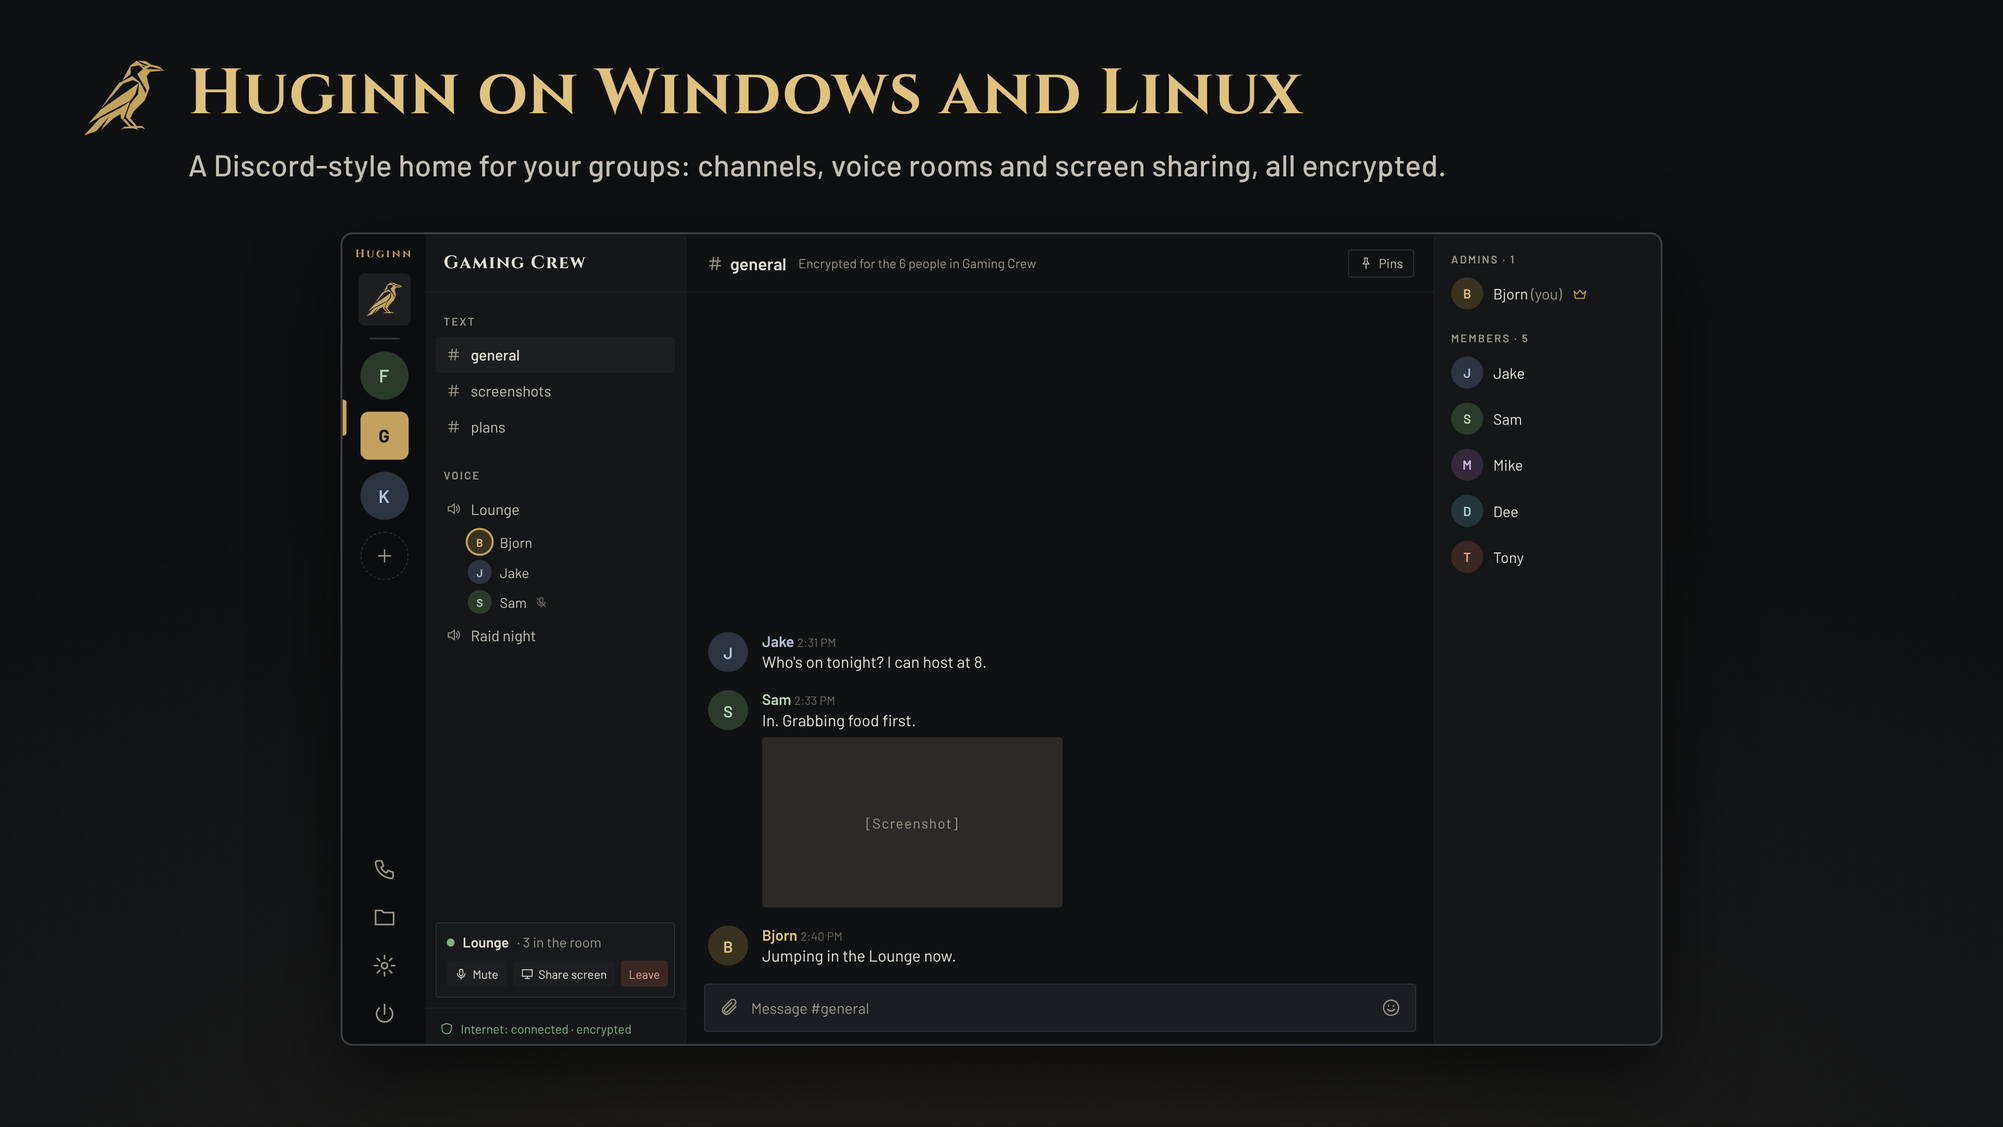
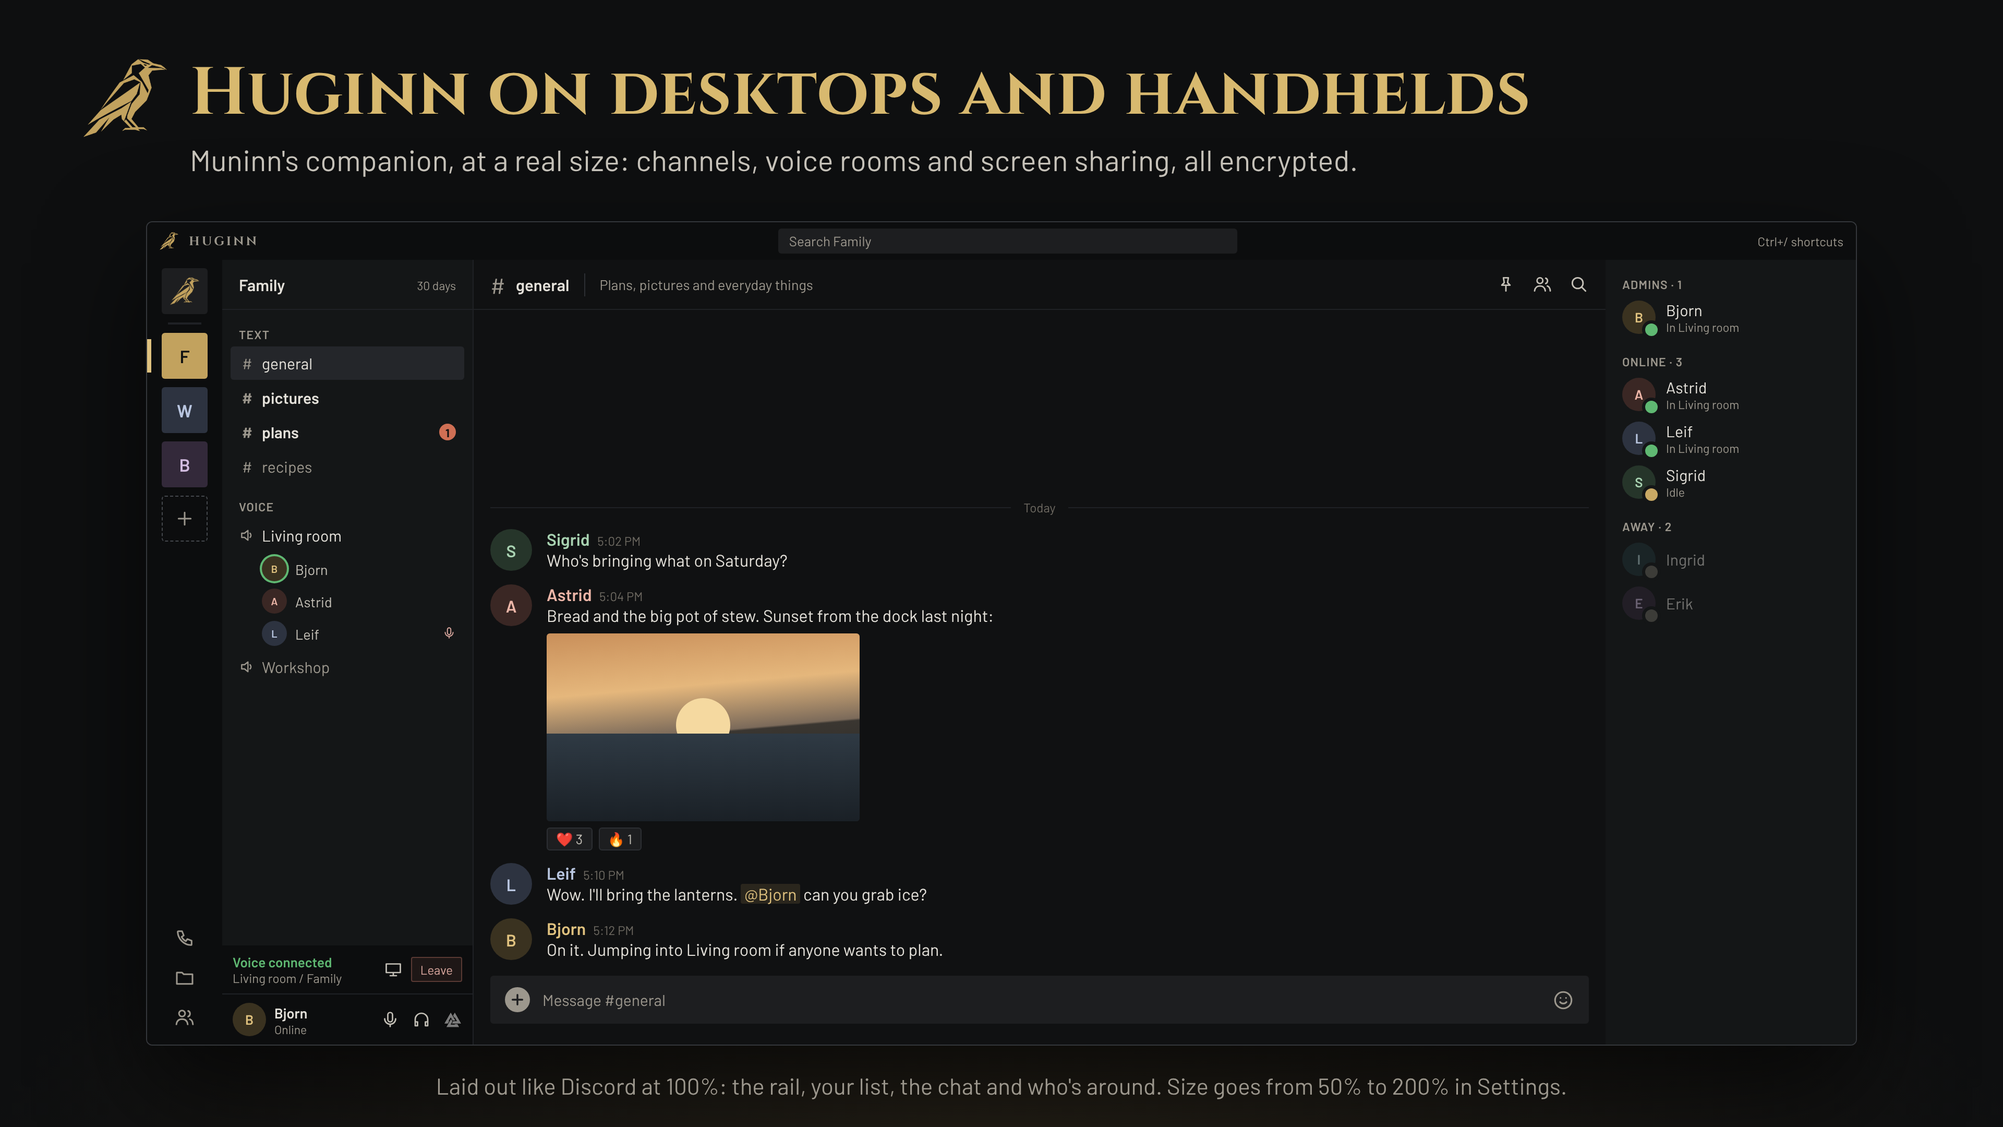
README and panels for 0.95: new phone, tablet, desktop, battery and privacy panels, Kids' TV reconnect and noise removal, themes, Move here and linked devices, groups and invite links; handheld panel removed; controller page for the normal layout

diff --git a/README.md b/README.md
@@ -16,23 +16,30 @@
 </p>
 
 <p align="center">
-  <a href="https://github.com/Ravenor907/Huginn-Muninn/releases/latest/download/Muninn.apk"><b>Muninn for Android and Google TV</b></a> &nbsp;·&nbsp;
-  <a href="https://github.com/Ravenor907/Huginn-Muninn/releases/latest/download/Huginn-Windows.zip"><b>Huginn for Windows</b></a> &nbsp;·&nbsp;
-  <a href="#install"><b>Huginn for Linux</b></a>
+  <a href="https://github.com/Ravenor907/Huginn-Muninn/releases/latest/download/Muninn.apk"><b>Muninn for Android</b></a> &nbsp;·&nbsp;
+  <a href="https://github.com/Ravenor907/Huginn-Muninn/releases/latest/download/Huginn-Windows.zip"><b>Huginn .exe</b></a> &nbsp;·&nbsp;
+  <a href="https://github.com/Ravenor907/Huginn-Muninn/releases/latest/download/Huginn.flatpak"><b>Huginn Flatpak</b></a>
 </p>
 
 Odin sends two ravens out every morning: Huginn (thought) and Muninn (memory). They fly the world and bring back what he needs to know.
 
-These two carry your messages. **Muninn** runs on Android phones, tablets and Google TV. **Huginn** runs on Windows and Linux computers. Together they are a private place for your family and friends to keep in touch, with nobody in the middle who can read it.
+These two carry your messages. **Muninn** runs on Android phones, tablets and Google TV. **Huginn** is the companion of Muninn, for desktops and handhelds: get the .exe or the Flatpak. Together they are a private place for your family and friends to keep in touch, with nobody in the middle who can read it.
+
+Both apps share one look: sharp edges, a touch of the old north, and a clean, modern layout. Settings fit on one short page, in plain words.
 
 ## Keep in touch
 
-- **Chats and groups:** messages, photos, albums, voice and video messages, polls, reactions and replies. Groups have their own channels.
+- **Chats and groups:** messages, photos, albums, voice and video messages, polls, reactions and replies. Groups have their own channels, voice rooms and a member list that shows who's around.
 - **Calls:** voice and video calls, group calls, and voice rooms people drop in and out of. Group video works for up to 4 people.
 - **Files:** send files to someone across the room or across the country. They go straight from your device to theirs.
-- **Easy to add the people you trust:** share your code or QR, send an invite link that works once, tap phones together, or let someone you both know introduce you.
-- **All your screens:** your phone, a tablet or second phone linked to it, and your computer.
-- **Kids' TV:** turn a Google TV into a simple screen your kids use to reach the people you approve.
+- **Easy to add the people you trust:** point the camera at their code, send an invite link that works once, tap phones together, or let someone you both know introduce you.
+- **Group invite links:** like Discord's. Pick how long a link lasts (30 minutes up to never) and how many people can use it, see every link that's out there, and revoke any of them at once. Admins can let members make links too.
+- **Press and hold someone** (right-click on a computer) to set who they are to you: Family, Work or Folk, what they may do (calls, video, files, Always right away), where their chat sits (pin, move, mute, archive), a nickname and a color. Block is there too.
+- **Move here:** got a new phone, tablet or computer? Everything comes over your home Wi-Fi: you, your contacts, groups and chats. Your contacts don't have to add you again. The old device is locked out, or becomes a linked device if you say so.
+- **Use both:** link a tablet, second phone or computer to your phone. The same 4 emoji show on both screens before anything is shared.
+
+<p align="center"><img src="docs/panels/12-groups-and-invites.png" width="100%" alt="Group invite links that expire, and press and hold someone to set their role"></p>
+<p align="center"><img src="docs/panels/11-move-and-link.png" width="100%" alt="Move everything to a new device over home Wi-Fi, or link it with 4 matching emoji"></p>
 
 ## Private by default
 
@@ -40,29 +47,48 @@ These two carry your messages. **Muninn** runs on Android phones, tablets and Go
 
 - **Only the people talking can read or hear it.** Every message, photo, voice note, call and file is end-to-end encrypted, with a fresh key for every message.
 - **No account.** You are a key made on your own device, not a phone number or email address. Strangers without your code can't reach you.
-- **Works with or without the internet.** Close by, your devices talk over Wi-Fi and Bluetooth. Apart, sealed messages travel through free public relays that can't see who sent them or what they say.
-- **Your address stays yours.** Calls with people you haven't chosen to trust go through a relay, so they never see your IP address.
-- **Locked on your device.** A pattern or password opens the app, and everything it keeps is encrypted. Panic lock locks it all in a moment.
-- **Messages don't stay forever.** Chats delete messages, photos, voice clips, videos and files after 7 days on every device, and backups leave them out. Family and Work groups, and people in your Family or Work folder, can keep them up to 30 days.
+- **Works with or without the internet.** Close by, your devices talk over Wi-Fi and Bluetooth. Apart, sealed messages travel through free public relays.
+- **Relays can't tell who's talking to whom.** Messages go out on their own short connections, padded to a few fixed sizes, so a relay can't link sender and receiver or guess what a message is. Only your internet address shows, unless you use a VPN.
+- **Your address stays yours on calls.** Calls with people you haven't chosen to trust go through a relay, so they never see your internet address.
+- **A lock that's hard to guess.** A pattern or password opens the app, and everything it keeps is encrypted. On a phone the lock is tied to its security chip, and on a computer it's built to be very slow to guess. Panic lock locks it all in a moment.
+- **Safe moves and links.** Move here works only on your home Wi-Fi, and linked devices are checked with 4 emoji on both screens.
+- **Messages don't stay forever.** Chats delete messages, photos, voice clips, videos and files after 7 days on every device, and backups leave them out. Family and Work chats can keep them up to 30 days. Relays are told to drop them when that time is up too.
+- **Checked top to bottom.** For 0.95 both apps were gone through for security problems and made tighter.
 - **Free and open.** GPL-3.0, no ads, no analytics, no tracking.
 
 ## On every screen you have
 
-<p align="center"><img src="docs/panels/01-muninn-phone.png" width="100%" alt="Muninn on your phone: chats, calls and file sharing"></p>
-<p align="center"><img src="docs/panels/02-muninn-tablet.png" width="100%" alt="Muninn on tablets: groups, channels and voice rooms"></p>
-<p align="center"><img src="docs/panels/03-huginn-desktop.png" width="100%" alt="Huginn on Windows and Linux"></p>
+The layout follows how you hold the screen. Upright, on a phone or a tablet, you get one column. Sideways, on a tablet or a computer, you get the rail with your groups, your list beside it and the conversation. Kids' TV keeps its own big-button layout.
+
+<p align="center"><img src="docs/panels/01-muninn-phone.png" width="100%" alt="Muninn on your phone: chats, photos, voice messages, polls, and adding someone with the camera"></p>
+<p align="center"><img src="docs/panels/02-muninn-tablet.png" width="100%" alt="Muninn on tablets: the rail layout sideways, one column upright"></p>
+<p align="center"><img src="docs/panels/03-huginn-desktop.png" width="100%" alt="Huginn on desktops and handhelds: a Discord-style layout at a real size"></p>
+
+On a computer Huginn is laid out like Discord at its normal size: the rail, your list, the conversation and the member list, each panel resizable. Size goes from 50% to 200% in Settings (or Ctrl+= and Ctrl+-). Huginn also works with a game controller: see [Using Huginn with a controller](docs/controller.md).
+
+Pick the look you like in Settings › Look and text size: **Dark**, **True black**, **Light** (parchment) or **Brushed metal**.
+
+<p align="center"><img src="docs/panels/10-themes.png" width="100%" alt="Four looks: Dark, True black, Light parchment and Brushed metal"></p>
 
 ## Easy on the battery
 
-<p align="center"><img src="docs/panels/08-battery.png" width="100%" alt="Choose how often Muninn checks for messages, quiet hours and a battery report"></p>
+<p align="center"><img src="docs/panels/08-battery.png" width="100%" alt="One battery choice in Settings, and a plain battery report"></p>
+
+- **One choice:** Fastest, Balanced or Extreme battery saver. Even the biggest saver keeps one light connection, so calls still ring almost at once.
+- **Messages on time, without Google.** No Google push. Muninn keeps its own light connection and wakes the phone only when it must.
+- **Always right away** for the people you pick, even on a low battery or in quiet hours.
+- **A battery report** shows what Muninn kept running today and roughly what it cost.
+- **Smaller downloads.** Muninn and Huginn both got lighter in 0.95.
 
 ## Kids' TV
 
-Muninn can also turn a Google TV into a simple screen your kids can use to reach Mom and Dad. No sign-in, no strangers, no ads: big buttons for a TV remote, and only the people a parent approves. Parents set it up and manage it from their own phones.
+Muninn can also turn a Google TV into a simple screen your kids can use to reach Mom and Dad. No sign-in, no strangers, no ads: big buttons for a TV remote, and only the people a parent approves. Parents set it up and manage it from their own phones, including how much room noise is taken out of the kids' voice on calls.
+
+Lost or reset your phone? Another parent lets you back in with one tap. If no parent is left, the TV shows a code behind a 5-second hold on the remote, so a child can't open it by accident.
 
 <p align="center"><img src="docs/panels/05-muninn-tv.png" width="100%" alt="Muninn on Google TV: kids pick who they want to talk to"></p>
-<p align="center"><img src="docs/panels/06-kids-tv-buttons.png" width="100%" alt="One button to call a parent, talk, or send a quick message"></p>
-<p align="center"><img src="docs/panels/07-parents-control.png" width="100%" alt="Parents manage the TV from their phone: quick messages, who they can reach, apps"></p>
+<p align="center"><img src="docs/panels/06-kids-tv-buttons.png" width="100%" alt="One button to call a parent, say it as text, or record a voice message"></p>
+<p align="center"><img src="docs/panels/07-parents-control.png" width="100%" alt="Parents manage the TV from their phone: quick messages, who they can reach, calls and noise removal"></p>
 
 ## What's new in 0.94
 
@@ -91,22 +117,20 @@ Every earlier release is in [What changed](docs/CHANGELOG.md).
 
 ## Install
 
-Both apps come out together with the same version number, and both update themselves when they open.
+There are three downloads, always: Muninn for Android, and Huginn as an .exe or a Flatpak. Both apps come out together with the same version number, and both update themselves when they open.
 
-**Muninn on Android and Google TV:** open this link on the device and install it:
+**Muninn on Android phones, tablets and Google TV:** open this link on the device and install it:
 https://github.com/Ravenor907/Huginn-Muninn/releases/latest/download/Muninn.apk
 
-**Huginn on Windows:** download [Huginn-Windows.zip](https://github.com/Ravenor907/Huginn-Muninn/releases/latest/download/Huginn-Windows.zip), unzip it anywhere and run `Huginn.exe`. Nothing to install.
+**Huginn .exe** (desktops and handhelds running Windows): download [Huginn-Windows.zip](https://github.com/Ravenor907/Huginn-Muninn/releases/latest/download/Huginn-Windows.zip), unzip it anywhere and run `Huginn.exe`. Nothing to install.
 
-**Huginn on Linux** (in a terminal):
+**Huginn Flatpak** (desktops and handhelds running Linux), in a terminal:
 
 ```
 cd ~/Downloads && curl -LO https://github.com/Ravenor907/Huginn-Muninn/releases/latest/download/Huginn.flatpak && flatpak install --user -y Huginn.flatpak
 ```
 
-Every download is signed with the project's own release key, and both apps refuse an update that isn't. Windows may still warn about an unknown publisher the first time: choose **More info**, then **Run anyway**. How to check a download yourself: [Releases and how to check them](docs/releases.md).
-
-Huginn also works with a game controller or TV remote: see [Using Huginn with a controller](docs/controller.md).
+**Signed updates.** Every download is signed with the project's own release key, and both apps refuse an update whose signature or checksum doesn't match. Windows may still warn about an unknown publisher the first time: choose **More info**, then **Run anyway**. How to check a download yourself: [Releases and how to check them](docs/releases.md).
 
 ## For developers
 
@@ -117,19 +141,23 @@ tools/get-fonts.sh
 flatpak-builder --user --install --force-clean build packaging/io.github.ravenor907.Huginn.json
 ```
 
-Windows builds with CMake, Qt 6.10 and vcpkg (see the Windows job in `.github/workflows/build.yml`). Muninn builds with Gradle from `android/`. The wire protocol is in [docs/protocol-0.6.md](docs/protocol-0.6.md). Found a security problem? See [SECURITY.md](SECURITY.md).
+Windows builds with CMake, Qt 6.10 and vcpkg (see the Windows job in `.github/workflows/build.yml`). Muninn builds with Gradle from `android/`. The wire protocol is in [docs/protocol-0.6.md](docs/protocol-0.6.md).
 
 ## Privacy
 
 Huginn and Muninn collect nothing about you: no accounts, no analytics, no ads, no tracking. This program will not transfer any information to other networked systems unless specifically requested by the user or the person installing or operating it. What leaves your device, and only to do what you asked:
 
-- **Messages, photos and voice clips** are end-to-end encrypted and sealed before they reach the public Nostr relays that carry them. Relays see only a sealed mailbox id and the IP address that connects to them.
-- **How long messages stay**: 7 days, or up to 30 in Family and Work chats, then they are deleted on every device. Each app tells the other how long it keeps a chat, next to the list of features it understands.
+- **Messages, photos and voice clips** are end-to-end encrypted and sealed before they reach the public Nostr relays that carry them. Relays see only a sealed mailbox id, a message padded to a set size, and the internet address that connects to them. Messages are sent on their own connections, so a relay can't tie them to the mailbox you listen on.
+- **How long messages stay**: 7 days, or up to 30 in Family and Work chats, then they are deleted on every device. Each message also tells the relays when to drop it. Each app tells the other how long it keeps a chat, next to the list of features it understands.
 - **Calls** go through the Cloudflare call relay ([Cloudflare privacy policy](https://www.cloudflare.com/privacypolicy/)), or straight between devices for contacts you trust. Audio and video are end-to-end encrypted. The relay login service keeps no logs.
 - **Updates** are downloaded from GitHub ([GitHub privacy statement](https://docs.github.com/site-policy/privacy-policies/github-general-privacy-statement)).
 - **Files over the internet** go straight between the two devices, end-to-end encrypted. To find a direct path, each device asks a public STUN server (Cloudflare's) for its own internet address; the file itself never goes through it. Small files that can't go straight travel in sealed pieces through the Nostr relays.
-- **Link previews** are made on the sender's phone, which fetches the page, so that site sees the sender's IP address. Turn them off in Settings › Privacy.
+- **Link previews** are made on the sender's device, which fetches the page, so that site sees the sender's internet address. Only https pages are fetched, never addresses on your own network. Turn them off in Settings › Lock and privacy.
 - **Nearby sharing** stays on your home Wi-Fi or Bluetooth.
+
+## Security
+
+Found a security problem? Please report it privately, not in a public issue: see [SECURITY.md](SECURITY.md) for how. For 0.95 both apps were checked for security problems from top to bottom, and the fixes are in this release.
 
 ## License
 

diff --git a/docs/controller.md b/docs/controller.md
@@ -1,6 +1,11 @@
 # Using Huginn with a controller or TV remote
 
-Huginn works with a game controller as well as a mouse and keyboard, which helps on a TV or a handheld PC.
+Huginn works with a game controller as well as a mouse and keyboard, which helps on a TV or a handheld. There is no
+separate controller mode: the controller works in the normal layout, which follows the screen (one column upright,
+the rail layout sideways). Huginn checks for a controller only while one is connected.
+
+The button legend along the bottom is hidden at first. Press **Select** (View or Back) to show it, and Select again,
+or any other button, to hide it. Hints about buttons only show while a controller is in use.
 
 | Button | What it does |
 |---|---|
@@ -14,8 +19,9 @@ Huginn works with a game controller as well as a mouse and keyboard, which helps
 | Right stick | Move the pointer (it hides after a few seconds) |
 | RB or R3 (right stick click) | Click |
 | RT | Right click |
+| Select (View) | Show or hide the button legend |
 | Menu | Settings |
-| L3 + R3 (hold) | Panic lock |
+| L3 + R3 (hold) | Panic lock (Ctrl+Shift+Q on a keyboard) |
 
 The pattern lock works with the D-pad: move to a dot, A starts there, move on through the dots, A again when done. B starts over.
 
@@ -23,7 +29,7 @@ A mouse and keyboard work too (Tab and Shift+Tab switch sections, Page Up and Pa
 
 ## The desktop panels
 
-On a PC Huginn looks like Discord: the rail, the list beside it, the conversation and a group's member list.
+Sideways, Huginn looks like Discord: the rail, the list beside it, the conversation and a group's member list.
 Everything there works with a controller too:
 
 - D-pad left and right move between the list, the conversation and the member list. A hidden list or member
@@ -31,8 +37,8 @@ Everything there works with a controller too:
 - A on a member opens their profile card (Message, Call, Video, nickname, note, folders). The D-pad moves along
   its buttons and B closes it. An admin finds Group options there.
 - A on a TEXT or VOICE heading folds that category away, and A again opens it.
-- In a voice room, A on the room has Mute, Deafen and Leave. On a handheld the bar along the bottom has them;
-  on the desktop the voice panel at the foot of the list does (click it with the right stick's pointer).
+- In a voice room, A on the room has Mute, Deafen and Leave. The voice panel at the foot of the list has them too
+  (click it with the right stick's pointer).
 - Push to talk (Settings › Calls) is a keyboard key: it works while Huginn is in front.
 
 Ctrl+/ lists every keyboard shortcut.

diff --git a/docs/HANDOFF.md b/docs/HANDOFF.md
@@ -110,7 +110,7 @@ docs/relay.md               how the apps use the relay Worker, STUN and TURN, an
 docs/releases.md            how releases are signed (the project's own Ed25519 key) and how to check one
 docs/release-key.pem        the release public key both apps carry
 SECURITY.md                 how to report a security problem privately
-docs/panels/01..09.png      4K marketing panels used by the README (04-huginn-handheld.png is no longer used)
+docs/panels/01..12.png      4K marketing panels used by the README (no 04: the handheld panel was removed in 0.95)
 docs/banner.png             README banner, drawn by tools/make-banner.py in CI
 docs/HANDOFF.md             this file
 tools/*_ref.py              Python reference implementations that write the test vectors
@@ -597,7 +597,6 @@ Quality check fixes (both apps): message history rewrite off the UI thread and o
 - **Discord-style ideas for Huginn on PC:** never gone through with the owner. Ask about them one at a time if the
   owner wants desktop parity.
 - **Huginn support for m2, i1, f1 and linked devices:** see part 10.
-- **Unused file:** `docs/panels/04-huginn-handheld.png` (removed from the README; can stay or be deleted, ask).
 - **Decided against (don't build):**
   - forwarding messages
   - location sharing
